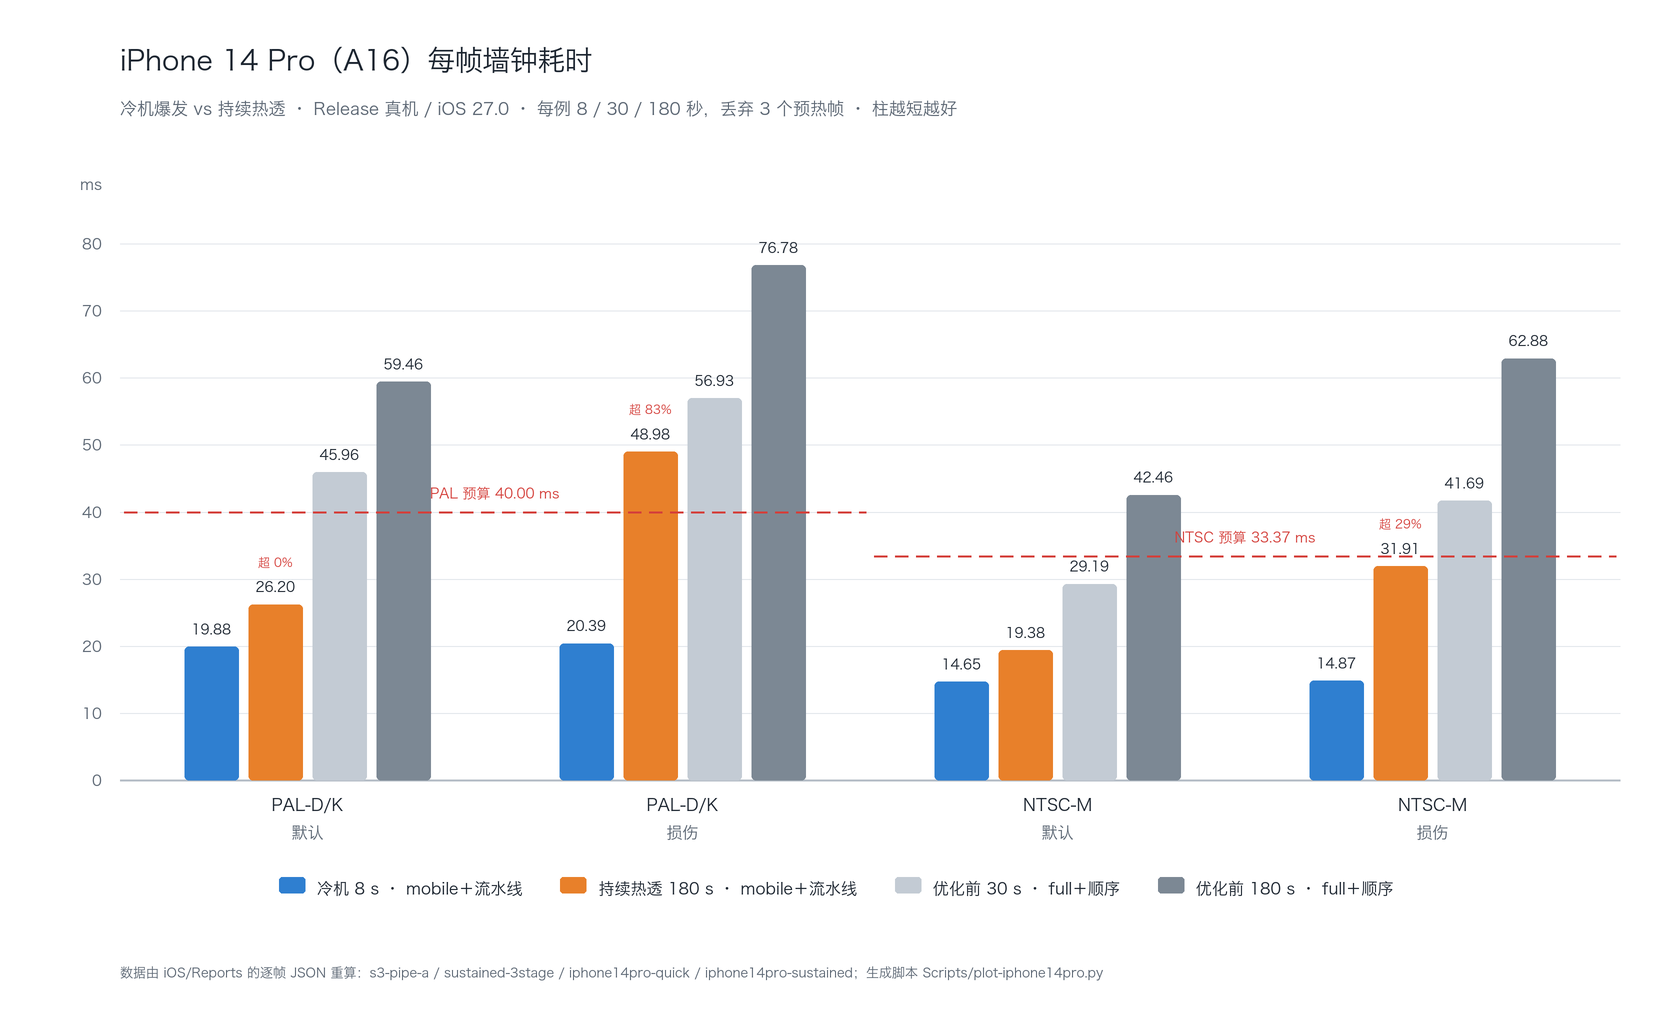
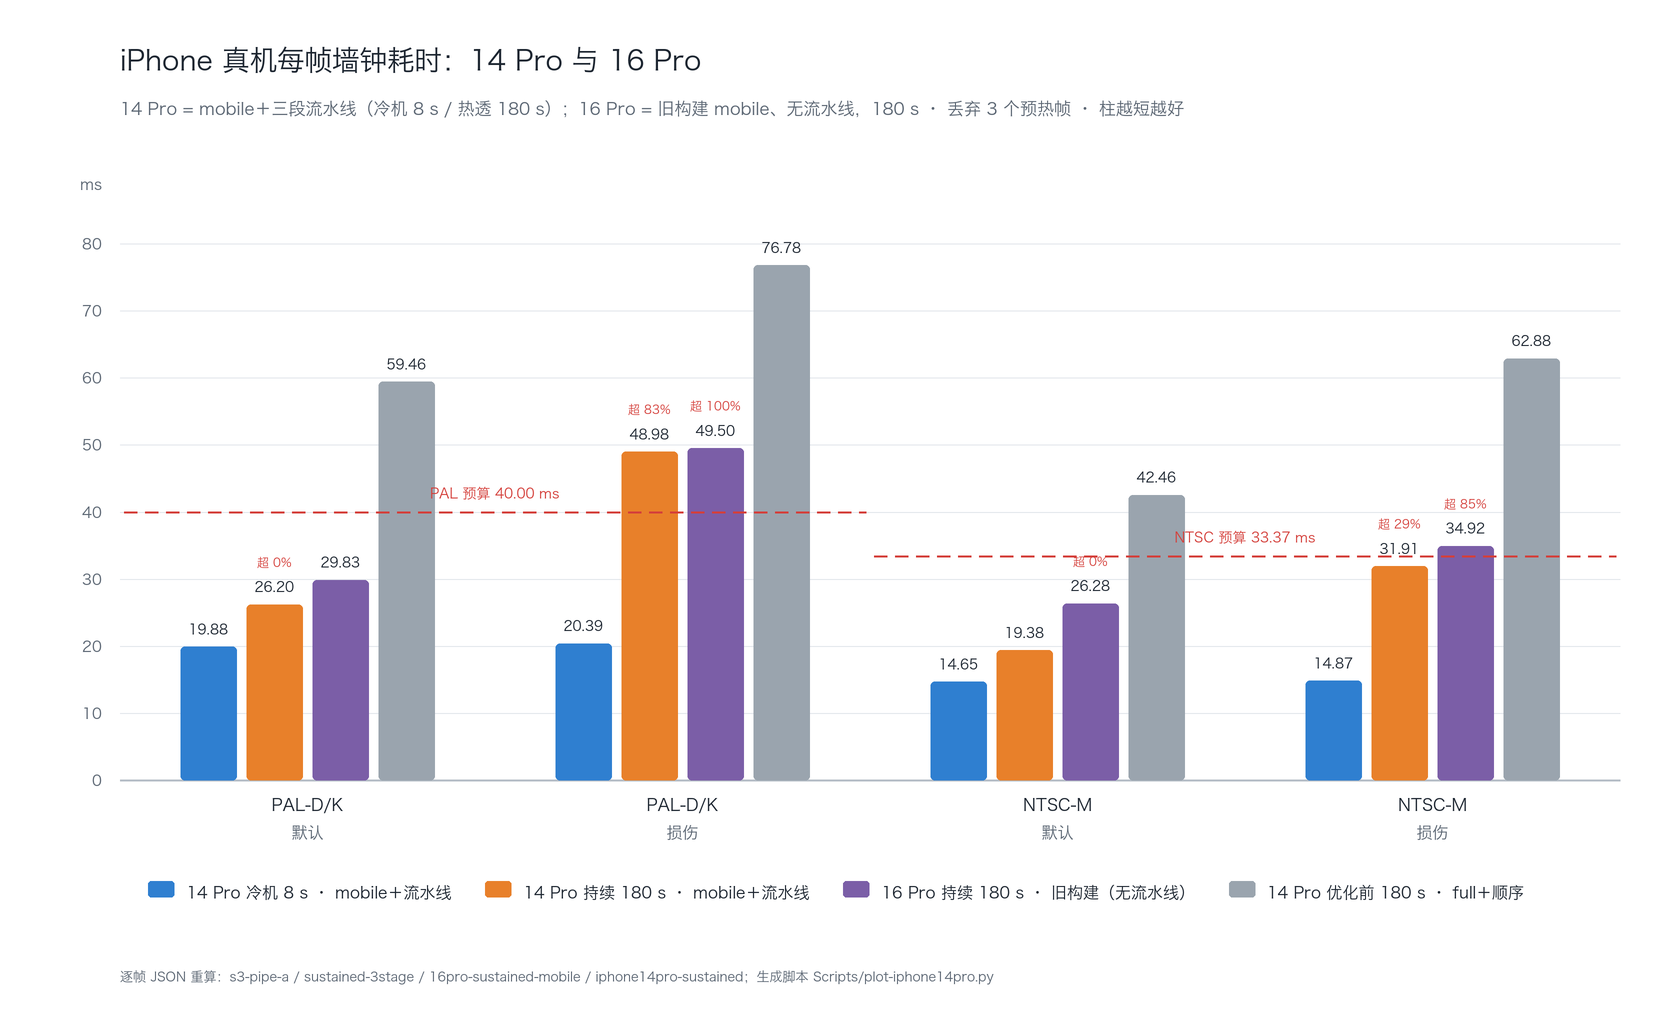
Add iPhone 16 Pro comparison data
The README now includes a 16 Pro comparison section alongside the existing 14 Pro results, clarifying that the 16 Pro data comes from an older mobile build without the three-stage pipeline. The chart generation script was updated to render 14 Pro cold/hot results against the 16 Pro sustained run, annotate over-budget shares, and refresh the included performance PNG to match the new data.

diff --git a/Scripts/plot-iphone14pro.py b/Scripts/plot-iphone14pro.py
@@ -1,5 +1,5 @@
 #!/usr/bin/env python3
-"""Draw the iPhone 14 Pro performance chart (cold burst vs sustained heat).
+"""Draw the iPhone performance chart (14 Pro cold vs hot, with the 16 Pro run).
 
 Every number is recomputed from the per-frame samples of the reports the
 benchmark app wrote, so the figure cannot drift from the raw data. Run:
@@ -27,8 +27,8 @@ GRID = "#e3e7ec"
 BUDGET = "#d43f3a"
 COLD = "#2f7fd0"
 HOT = "#e8802a"
-BASE_QUICK = "#c3cbd4"
-BASE_SUSTAINED = "#7c8894"
+SIXTEEN = "#7b5ea7"
+BASE = "#9aa4ae"
 
 FONT_PATH = "/System/Library/Fonts/Hiragino Sans GB.ttc"
 
@@ -38,7 +38,7 @@ def font(size, bold=False):
 
 
 def load(name):
-    """Return {(system, scenario): (mean, p95, over_budget_frames, frames)}."""
+    """Return {(system, scenario): (mean, p95, over_budget_frames, frames, budget)}."""
     report = json.loads((REPORTS / f"{name}.json").read_text())
     out = {}
     for case in report["cases"]:
@@ -61,20 +61,21 @@ SCENARIOS = [
     ("NTSC-M", "damaged", "NTSC-M", "损伤"),
 ]
 
+# label, colour, report, annotate the over-budget share
 SERIES = [
-    ("冷机 8 s · mobile＋流水线", COLD, "s3-pipe-a"),
-    ("持续热透 180 s · mobile＋流水线", HOT, "sustained-3stage"),
-    ("优化前 30 s · full＋顺序", BASE_QUICK, "iphone14pro-quick"),
-    ("优化前 180 s · full＋顺序", BASE_SUSTAINED, "iphone14pro-sustained"),
+    ("14 Pro 冷机 8 s · mobile＋流水线", COLD, "s3-pipe-a", False),
+    ("14 Pro 持续 180 s · mobile＋流水线", HOT, "sustained-3stage", True),
+    ("16 Pro 持续 180 s · 旧构建（无流水线）", SIXTEEN, "16pro-sustained-mobile", True),
+    ("14 Pro 优化前 180 s · full＋顺序", BASE, "iphone14pro-sustained", False),
 ]
 
-data = {label: load(name) for label, _, name in SERIES}
+data = {label: load(name) for label, _, name, _ in SERIES}
 
 # ---------------------------------------------------------------- geometry
 PLOT_L, PLOT_R = 120, W - 60
 PLOT_T, PLOT_B = 210, H - 240
 Y_MAX = 85.0
-Y_TICKS = list(range(0, 86, 10))
+Y_TICKS = list(range(0, 81, 10))
 
 image = Image.new("RGB", (W * S, H * S), "#ffffff")
 draw = ImageDraw.Draw(image)
@@ -108,10 +109,10 @@ def dashed(p1, p2, dash, gap, fill, width):
 
 
 # ------------------------------------------------------------------ title
-draw.text((x(PLOT_L), p(46)), "iPhone 14 Pro（A16）每帧墙钟耗时",
+draw.text((x(PLOT_L), p(46)), "iPhone 真机每帧墙钟耗时：14 Pro 与 16 Pro",
           font=font(30, True), fill=INK)
 draw.text((x(PLOT_L), p(100)),
-          "冷机爆发 vs 持续热透 · Release 真机 / iOS 27.0 · 每例 8 / 30 / 180 秒，丢弃 3 个预热帧 · 柱越短越好",
+          "14 Pro = mobile＋三段流水线（冷机 8 s / 热透 180 s）；16 Pro = 旧构建 mobile、无流水线，180 s · 丢弃 3 个预热帧 · 柱越短越好",
           font=font(17), fill=MUTED)
 
 # ------------------------------------------------------------------- grid
@@ -126,14 +127,14 @@ draw.line([(x(PLOT_L), y(0)), (x(PLOT_R), y(0))], fill="#b6bec7", width=2 * S)
 
 # ------------------------------------------------------------------- bars
 slot = (PLOT_R - PLOT_L) / len(SCENARIOS)
-bar_w = 54
+bar_w = 56
 gap = 10
 total_w = len(SERIES) * bar_w + (len(SERIES) - 1) * gap
 
 for index, (system, scenario, sys_label, scen_label) in enumerate(SCENARIOS):
     center = PLOT_L + slot * (index + 0.5)
     left = center - total_w / 2
-    for s_index, (label, colour, _) in enumerate(SERIES):
+    for s_index, (label, colour, _name, annotate) in enumerate(SERIES):
         mean, p95, over, count, _budget = data[label][(system, scenario)]
         bx0 = left + s_index * (bar_w + gap)
         bx1 = bx0 + bar_w
@@ -141,11 +142,10 @@ for index, (system, scenario, sys_label, scen_label) in enumerate(SCENARIOS):
                                radius=4 * S, fill=colour)
         draw.text(((x(bx0) + x(bx1)) / 2, y(mean) - 12 * S), f"{mean:.2f}",
                   font=font(15, True), fill=INK, anchor="mb")
-        if over and "流水线" in label and "冷机" not in label:
+        if annotate and over:
             draw.text(((x(bx0) + x(bx1)) / 2, y(mean) - 36 * S),
                       f"超 {over / count:.0%}", font=font(13, True),
                       fill=BUDGET, anchor="mb")
-    # group label
     draw.text((x(center), y(0) + 16 * S), sys_label,
               font=font(18, True), fill=INK, anchor="ma")
     draw.text((x(center), y(0) + 44 * S), scen_label,
@@ -163,20 +163,20 @@ for span, budget, caption in ((pal_span, pal_budget, f"PAL 预算 {pal_budget:.2
               font=font(15, True), fill=BUDGET, anchor="mb")
 
 # ----------------------------------------------------------------- legend
-legend_y = y(0) + 108 * S
-entries = [(label, colour) for label, colour, _ in SERIES]
+legend_y = y(0) + 112 * S
+entries = [(label, colour) for label, colour, _name, _ in SERIES]
 widths = [draw.textlength(label, font=font(16)) + 46 * S for label, _ in entries]
-total = sum(widths) + 30 * S * (len(entries) - 1)
+total = sum(widths) + 26 * S * (len(entries) - 1)
 cursor = x(W / 2) - total / 2
 for (label, colour), entry_w in zip(entries, widths):
     draw.rounded_rectangle([cursor, legend_y - 11 * S, cursor + 26 * S, legend_y + 5 * S],
                            radius=3 * S, fill=colour)
     draw.text((cursor + 38 * S, legend_y), label, font=font(16), fill=INK, anchor="lm")
-    cursor += entry_w + 30 * S
+    cursor += entry_w + 26 * S
 
 # ---------------------------------------------------------------- footnote
-draw.text((x(PLOT_L), H * S - 54 * S),
-          "数据由 iOS/Reports 的逐帧 JSON 重算：s3-pipe-a / sustained-3stage / iphone14pro-quick / iphone14pro-sustained；"
+draw.text((x(PLOT_L), H * S - 50 * S),
+          "逐帧 JSON 重算：s3-pipe-a / sustained-3stage / 16pro-sustained-mobile / iphone14pro-sustained；"
           "生成脚本 Scripts/plot-iphone14pro.py",
           font=font(13), fill=MUTED)
 

diff --git a/README.md b/README.md
@@ -139,7 +139,9 @@ RGB → CVBS → 负极性 AM / VSB → 图像与伴音功放 → 线性合成
 
 括号内是超预算帧数。首轮优化把核心链路从 149.15 / 100.53 ms 降到 36.47 / 23.41 ms（约 4.1× / 4.3×），此后维持实时余量。
 
-## iPhone 14 Pro 真机（A16）
+## iPhone 真机实测
+
+### iPhone 14 Pro（A16）
 
 同一台 14 Pro 上，**冷机与热透的差距比任何一次代码改动都大**：冷机时四个场景全部进预算，持续热透后 PAL 损伤会掉到 122%。下面把所有状态并在一张表里，每例 8 / 30 / 180 秒，丢弃 3 个预热帧；括注 P95，`超` 为该场景的超预算帧数。
 
@@ -152,18 +154,30 @@ RGB → CVBS → 负极性 AM / VSB → 图像与伴音功放 → 线性合成
 | 优化前 30 s 快速 · full＋顺序引擎 | 45.96 | 56.93 | 29.19 | 41.69 |
 | 优化前 180 s 持续 · full＋顺序引擎 | 59.46 | 76.78 | 42.46 | 62.88 |
 
-![iPhone 14 Pro 冷机与持续热态的每帧耗时](Assets/iphone14pro-performance.png)
-
 - 冷机两行的超预算帧数都是 0；优化前基线的每个场景都超预算（NTSC 默认快速仅 2/898 帧超）。持续热透下的实际交付速率：PAL 默认 100%、NTSC 默认 100%、NTSC 损伤 98%、PAL 损伤 79%。
 - 冷机爆发与持续热透相差 **2.3 倍**（PAL 损伤 21.4 → 49.0 ms），几乎全部来自降频而不是工作量；持续数字在同一天内也会随设备历史热状态漂移（仅损伤场景的复跑为 33.33 / 31.31 ms），所以持续测的绝对值只能与同一次会话内的配对比较。
 - 上面三档都固定在 **mobile** 档测量；iOS App 在 serious／critical 时会自动切到更省的 `hot` 档，该档尚无真机报告。
 - 原始报告：冷机爆发 [s3-pipe-a.json](iOS/Reports/s3-pipe-a.json)、冷机 30 s [qos-ui-b.json](iOS/Reports/qos-ui-b.json)、持续 180 s [sustained-3stage.json](iOS/Reports/sustained-3stage.json)、仅损伤复跑 [therm-unl-a.json](iOS/Reports/therm-unl-a.json)；优化前基线见 [真机报告](iOS/Reports/iPhone14Pro-results.md)；交错 A/B 与归一见 [流水线与测量记录](iOS/Reports/p2-pipeline.md)。
 
+### iPhone 16 Pro（A18 Pro，旧构建）
+
+16 Pro 只跑过**三段流水线之前的构建**（mobile 档，[热态实时调查](iOS/Reports/thermal-realtime-round2.md) 那一轮），因此下面是**机型对照，不是同版本对照**：同为 180 s 持续，14 Pro 走当前流水线，16 Pro 走旧构建。8 s 那一行整段处于 fair 热态。
+
+| 状态（mobile，无流水线） | PAL-D/K 默认 | PAL-D/K 损伤 | NTSC-M 默认 | NTSC-M 损伤 |
+| --- | ---: | ---: | ---: | ---: |
+| **帧预算** | 40.00 | 40.00 | 33.37 | 33.37 |
+| 冷机 8 s（fair） | 25.75（P95 26.48） | 33.31（P95 34.51） | 19.11（P95 19.95） | 23.85（P95 24.75） |
+| 持续 180 s | 29.83（P95 34.18，超 0/4499） | **49.50**（P95 65.25，超 3289/3289） | 26.28（P95 29.90，超 4/5352） | **34.92**（P95 36.64，超 3525/4138） |
+
+这组对照里 **14 Pro 反而全面更快**（默认场景 26.20 / 19.38 ms 对 16 Pro 的 29.83 / 26.28 ms），但有两个变量同时在变，不能当芯片对比读：14 Pro 用的是三段流水线，而热状态也对 16 Pro 更有利——14 Pro 的 180 s 全程 serious，16 Pro 那次只有 54% 的时间处于 serious（前 46% 是 fair）。能说的只是：**当前代码在 14 Pro 上已经追平甚至超过 16 Pro 的旧构建**。原始数据 [16pro-sustained-mobile.json](iOS/Reports/16pro-sustained-mobile.json)、8 s [16pro-A1-mobile-profile.json](iOS/Reports/16pro-A1-mobile-profile.json)；**16 Pro 尚未用三段流水线复测**。
+
+![iPhone 14 Pro 与 16 Pro 的每帧耗时：冷机、持续热透与优化前基线](Assets/iphone14pro-performance.png)
+
 **没有达标的地方也一并列出**，因为它们界定了当前边界：
 
 - **右侧传播侧栏的三种窗口布局全部失败**（PAL 最慢 43.90 / 65.90 / 59.94 ms，超预算 2 / 3 / 10 帧）。
 - **iPhone 14 Pro**：持续热透下只剩 **PAL 损伤不达标**（48.98 ms，122%）；NTSC 损伤均值 31.91 ms 虽在预算内，但 P95 36.79 ms、29% 的帧超预算。**手机实时依赖热状态，不能用冷机数字承诺长时间播放**。
-- **iPhone 16 Pro**（mobile 档、尚无三段流水线的旧构建，180 s／场景）：PAL 默认均值 29.83 ms、能力 134%、超预算 0；PAL 损伤 49.50 ms、能力 81%；NTSC 默认 26.28 ms（超 4 帧）；**NTSC 损伤 34.92 ms，超预算 85%**。同一构建下 14 Pro 的数字见上表；16 Pro 尚未用三段流水线复测。
+- **iPhone 16 Pro**（旧构建）：两个损伤场景都不达标（PAL 损伤 49.50 ms，全部帧超预算；NTSC 损伤 34.92 ms，85% 超预算），见上一节。
 
 ## 档位：Full / Fast / hot
 
